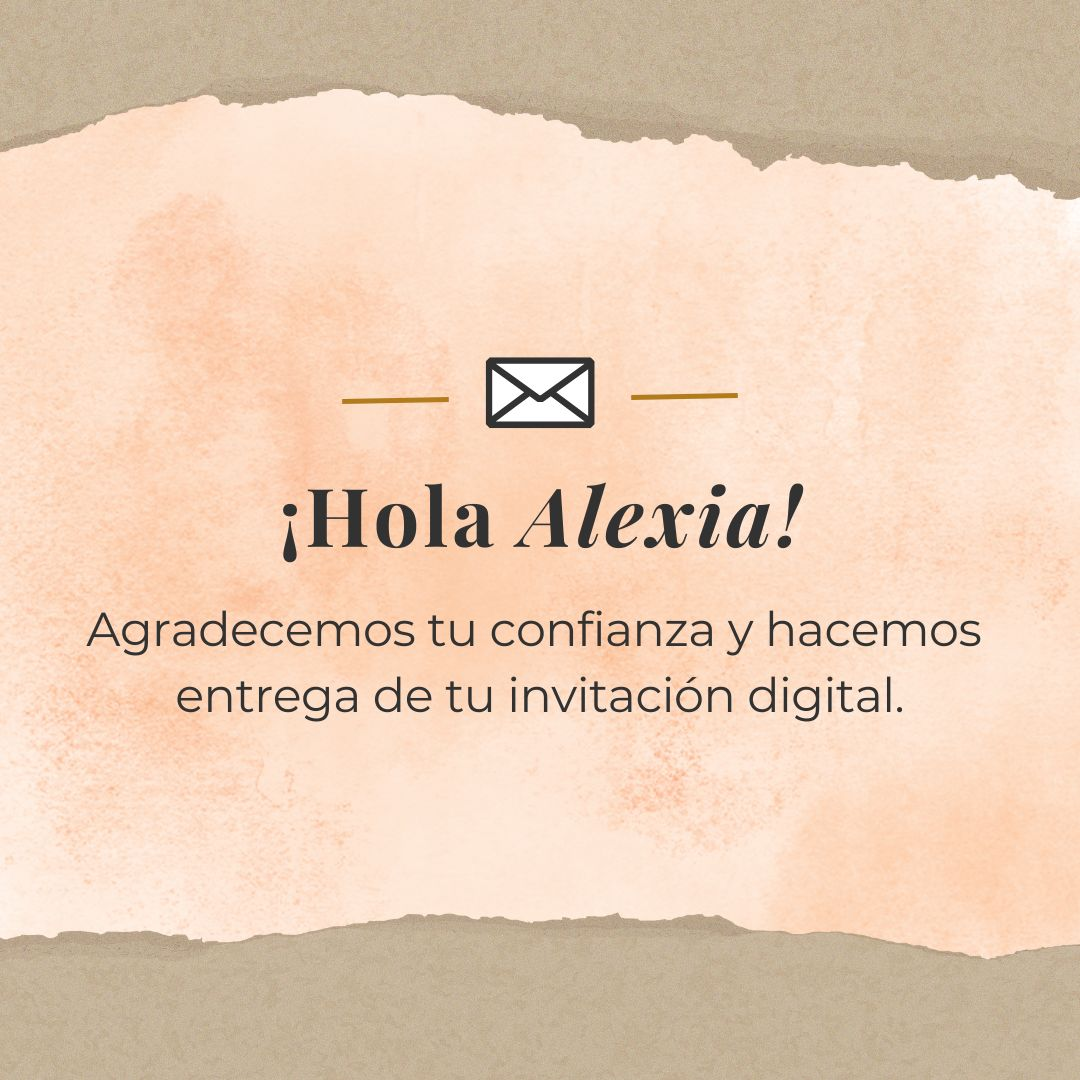
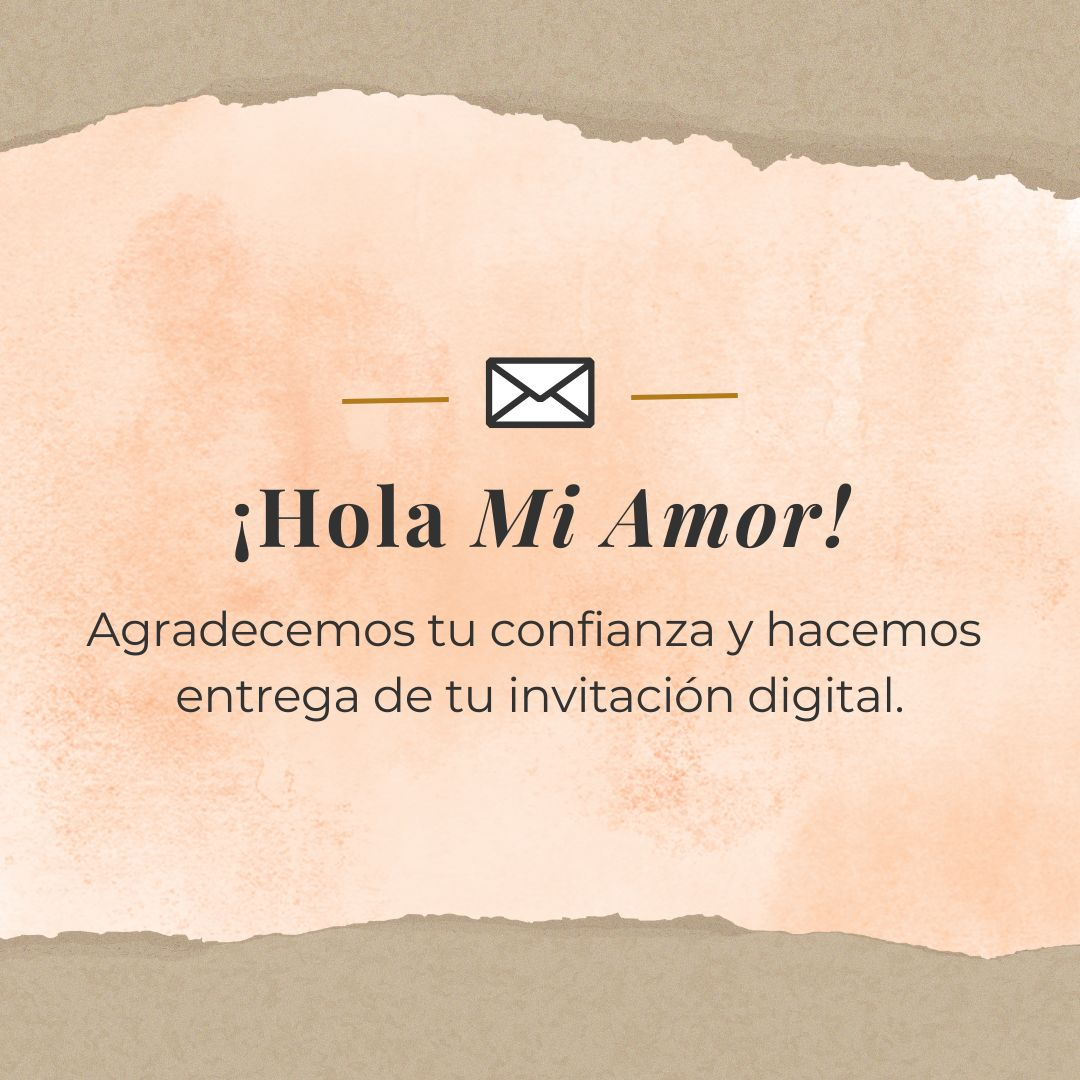
Add files via upload

Changed region(s): [[0.2139, 0.4278, 0.7944, 0.5194]]

diff --git a/index.html b/index.html
@@ -11,7 +11,7 @@
         <meta name="description" content="Da click en el enlace para ver tu invitación."/>
         <meta property="og:locale" content="es_ES"/>
         <meta property="og:type" content="website"/>
-        <meta property="og:title" content="¡Hola Alexia!"/>
+        <meta property="og:title" content="¡Hola Mi Amor!"/>
         <meta property="og:description" content="Da click en el enlace para ver tu invitación."/>
         <meta property="og:url" content="https://my-birthday.github.io/alexiahuizar/index.html"/>
         <meta property="article:modified_time" content="2023-02-19T17:24:46+00:00"/>
@@ -27,7 +27,7 @@
           {
               "@type": "Organization",
               "@id": "https://my-birthday.github.io/alexiahuizar/index.html/#/schema/Organization/1",
-              "name": "¡Hola Alexia!",
+              "name": "¡Hola Mi Amor!",
               "url": "https://my-birthday.github.io/alexiahuizar/index.html",
               "sameAs": [
               ],
@@ -48,7 +48,7 @@
               "@type": "WebSite",
               "@id": "https://my-birthday.github.io/alexiahuizar/index.html/#/schema/WebSite/1",
               "url": "https://my-birthday.github.io/alexiahuizar/index.html",
-              "name": "¡Hola Alexia!",
+              "name": "¡Hola Mi Amor!",
               "publisher": {
                   "@id": "https://my-birthday.github.io/alexiahuizar/index.html/#/schema/Organization/1"
               },
@@ -100,7 +100,7 @@
 
 
 </script>
-    <title>¡Hola Alexia!</title>
+    <title>¡Hola Mi Amor!</title>
     <link rel="shortcut icon" href="img/CODIGO LOGOTIPO.png"/>
 </head>
 
@@ -117,7 +117,7 @@
         
    
              <p id="icono" style="font-size: 35px; color:#FCD4B7"><i class="far fa-envelope"></i></p>
-            <h4 class='cliente col-12 col-md-5 col-lg-12 text-center mb-0 mt-2'><b>¡ Hola <i>Alexia</i> !</b></h4>
+            <h4 class='cliente col-12 col-md-5 col-lg-12 text-center mb-0 mt-2'><b>¡ Hola <i>Mi Amor</i> !</b></h4>
           <h5 class='nombres1 mb-0 col-lg-12 text-center mt-4' ><b>Agradecemos tu confianza y hacemos entrega de tu invitación digital.</b></h5>  
 
      
